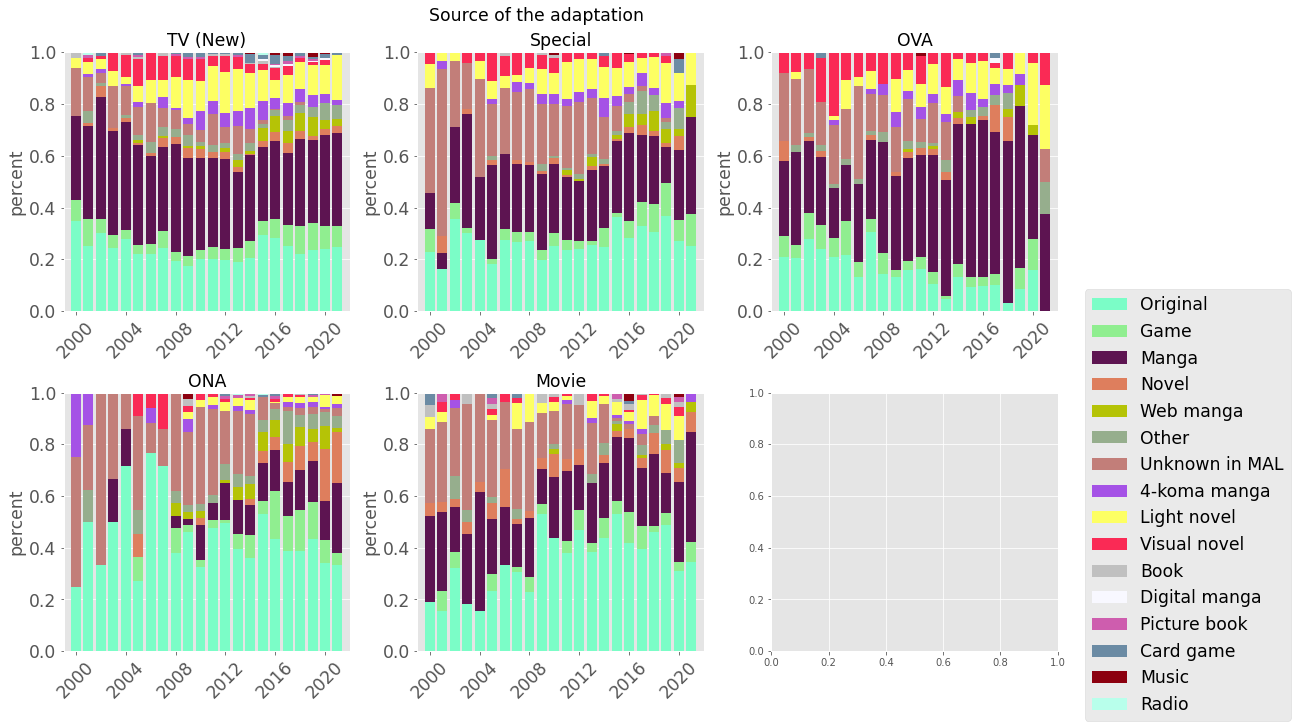
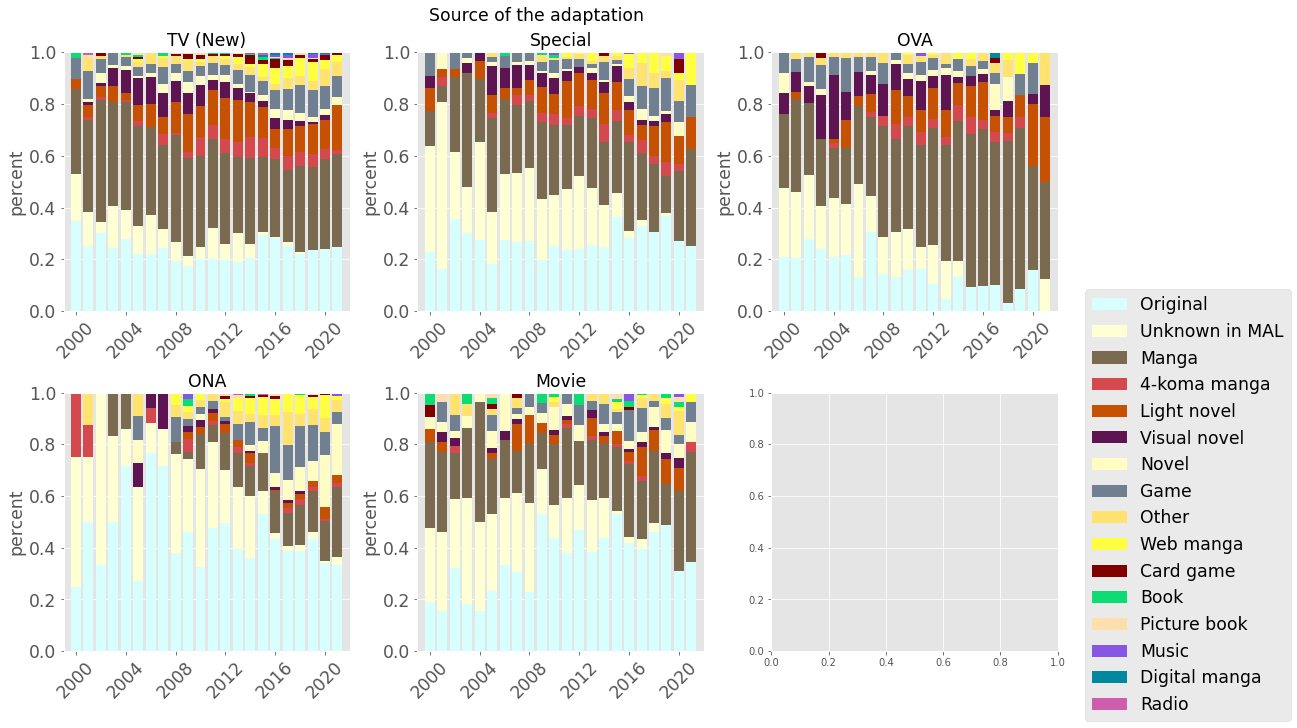
Creating function for my stacked bar

diff --git a/MyAnalizer.py b/MyAnalizer.py
@@ -30,11 +30,12 @@ raw['episodes']=raw['episodes'].astype(int)
 font='xx-large'
 enlarge_fig=(15,10)
 
-def production(df,min_year,max_year,anitypes):
+def production(df,min_year,max_year,anitypes): #To vizualize the sum of anime product each year for each season
     
     season_analyze=df.value_counts(['release-year','release-season','type']).reset_index(name='count') #count occurence and build the dataframe with a new column 'count'
 
     select_years=season_analyze[(season_analyze['release-year']<=max_year) & (season_analyze['release-year']>=min_year)] #remove years out of study scope
+    select_years=select_years[select_years['type'].isin(anitypes)]
     
     years=np.linspace(select_years['release-year'].min(),select_years['release-year'].max(),select_years['release-year'].max()-select_years['release-year'].min()+1).astype(int) #I want a list of the years
     
@@ -91,80 +92,61 @@ def production(df,min_year,max_year,anitypes):
 
     return fig
 
-def episode(df,min_year,max_year):
-    select_year=df[(df['type']=='TV (New)') & (df['episodes']>0) & (df['release-year']>=min_year) & (df['release-year']<=max_year)] #Limit my dataframe
+def episode(df,min_year,max_year,anitype,max_shown): #This function is showing the repartition of anime'lenght in the year
+    select_year=df[(df['type']==anitype) & (df['episodes']>0) & (df['release-year']>=min_year) & (df['release-year']<=max_year)] #Limit my dataframe
     
     fig, ax =plt.subplots(figsize=enlarge_fig)
     ax=sb.violinplot(x='release-year',y='episodes',data=select_year,bw=.05,cut=0, scale='width',inner='quartile',orientation='h') 
     ax.tick_params('x',labelrotation=45, labelsize=font)
     ax.tick_params('y', labelsize=font)
     ax.set_ylabel('length',fontsize=font)
+    ax.set_ylabel('diffusion',fontsize=font)
     ax.xaxis.label.set_size(font)
-    ax.set(ylim=(0,60))
+    ax.set(ylim=(0,max_shown))
     ax.xaxis.set_major_locator(ticker.MultipleLocator(base=round((max_year-min_year)/10))) # I want to limit the number of label shown
-    ax.set_title('Repartion of anime length',fontsize=font)
+    ax.set_title('Repartion of anime length : '+ anitype,fontsize=font)
     
     fig.tight_layout()
     return fig    
 
-def sauce(df,min_year,max_year,anitypes):
-    
-    if len(anitypes) == 6:
-        anitypes=['TV (New)', 'Special', 'OVA', 'ONA', 'Movie']
+def sauce(df,min_year,max_year,anitypes): 
         
     select_years=df[(df['release-year']<=max_year) & (df['release-year']>=min_year)] #remove years out of study scope
-    select_years=select_years[select_years['type'].isin(anitypes)]
+    select_years=select_years[select_years['type'].isin(anitypes)] 
     
-    select_years.loc[select_years['source-material'] == '-', 'source-material'] = "Unknown in MAL"
+    select_years.loc[select_years['source-material'] == '-', 'source-material'] = "Unknown in MAL" #replace the default value when source is not assigned to an anime
     
-    select_years=select_years.value_counts(['release-year','type','source-material']).reset_index(name='count')
+    select_years=select_years.value_counts(['release-year','type','source-material']).reset_index(name='count') #transform the long list to a count for each config
     
+    #getting the sum and repartition for each release-year/type couple
     select_sum=select_years.groupby(['release-year','type'])['count'].sum().reset_index(name='sum')
-    select_years=pd.merge(select_years,select_sum,on=('release-year','type'))
+    select_years=pd.merge(select_years,select_sum,on=('release-year','type')) 
     select_years['percent']=select_years['count']/select_years['sum']
     
-    # select_years=select_years[select_years['percent']>0.05]
+    #build a descending list by percent of source material
+    sauces=select_years.sort_values('percent',ascending=False)['source-material'].unique()    
     
-    sauces=select_years['source-material'].unique()    
-    
+    #I have a lot of category so I want to build a custom color list with colors picked randomly and all different
     colors_list = list(colors._colors_full_map.values())
-    random_list=np.random.choice(np.arange(len(colors_list)), len(sauces),replace=False)
+    random_list=np.random.choice(np.arange(len(colors_list)), len(sauces),replace=False) #replace to pick strictly different number
     random_color=[]
     for color in random_list:
         random_color.append(colors_list[color])
     
+
     years=np.linspace(select_years['release-year'].min(),select_years['release-year'].max(),select_years['release-year'].max()-select_years['release-year'].min()+1).astype(int) #I want a list of the years
+
+
+    bottom=pd.DataFrame({'years':years,'cumul':[0]*len(years)})#this dataframe will accumulate the value to build the stacked barplot
     
-    for year in years:
-        df_year=select_years[select_years['release-year']==year]
-        for anitype in anitypes:
-            df_type=df_year[df_year['type']==anitype]
-            for sauce in sauces:
-                if sauce not in df_type['source-material'].values:
-                    add_sauce=pd.DataFrame({'release-year':[year],'type':[anitype],'source-material':[sauce],'count':[0],'sum':[0],'percent':[0]})
-                    select_years=pd.concat([select_years,add_sauce])
-                    select_years.reset_index(drop=True,inplace=True)
-
-
-    bottom=pd.DataFrame({'years':years,'cumul':[0]*len(years)})#this data frame will accumulate the value to build the stacked barplot
-
-                       
-    if len(anitypes)==5:
-        fig, axes = plt.subplots(2,3,figsize=enlarge_fig) #building a subplot for the 5 anime type
-        axes = axes.flatten()
-        
-        for anime_type,ax in zip(anitypes,axes): #Season and plot goes together so I zip them
-            df_type=select_years[select_years['type']==anime_type].sort_values('release-year') #reducing the DataFrame to the season studied I need the year to be at the right order for the stacking
-            bottom['cumul']=[0]*len(years) #initialize bottom for each season
-            print('--------------'+anime_type)
-            
-            for sauce,color in zip(sauces,random_color):
-                df_sauce=df_type[df_type['source-material']==sauce]
+    def stackbarcolor(df_type,sauces,bottom,ax,anime_type):
+        for sauce,color in zip(sauces,random_color): #I want to attribute a color for each source that will be consistent for each type of anime
+                df_sauce=df_type[df_type['source-material']==sauce] #reducing the the source
                 df_sauce.reset_index(drop=True, inplace=True)
                 print(sauce)
                 
                 if len(df_sauce)!=len(bottom):
-                    temp_bottom=pd.merge(bottom,df_sauce,left_on='years',right_on='release-year') #if there is a lack of type of anime for a season, I reduce the bottom dataframe to an extract of it (if not shape mis shape between count and bottom)
+                    temp_bottom=pd.merge(bottom,df_sauce,left_on='years',right_on='release-year') #if there is a lack of source for anime for a season, I reduce the bottom dataframe to an extract of it (if not shape mis shape between count and bottom)
                                             
                     ax.bar(df_sauce['release-year'],df_sauce['percent'],label=sauce,bottom=temp_bottom['cumul'],color=color)
                     
@@ -185,44 +167,36 @@ def sauce(df,min_year,max_year,anitypes):
                 ax.tick_params('y', labelsize=font)
                 ax.axis(ymax=1)
                 ax.ticklabel_format(axis='x', style='plain', useOffset=False) #If I don't do this plt want to put the label to engineering notation
-                ax.xaxis.set_major_locator(ticker.MultipleLocator(base=round((max_year-min_year)/5)))
-                handles, labels = ax.get_legend_handles_labels() #I store the legend
+                ax.xaxis.set_major_locator(ticker.MultipleLocator(base=round((max_year-min_year)/5))) #I want only 5 step for xlabel
+                
+
     
+    
+    #differentiating plot for each type or just one type                   
+    if len(anitypes)>1:
+        fig, axes = plt.subplots(2,3,figsize=enlarge_fig) #building a subplot for the 6 anime types
+        axes = axes.flatten()
+        
+        for anime_type,ax in zip(anitypes,axes): #Season and plot goes together so I zip them
+            df_type=select_years[select_years['type']==anime_type].sort_values('release-year') #reducing the DataFrame to the season studied I need the year to be at the right order for the stacking
+            bottom['cumul']=[0]*len(years) #initialize bottom for each season
+            print('--------------'+anime_type)
+            
+            stackbarcolor(df_type,sauces,bottom,ax,anime_type)
+            
+        for ax in axes:
+            handles, labels = ax.get_legend_handles_labels() #I store the legend
+                
     else:
         fig, ax = plt.subplots(1,1,figsize=enlarge_fig) #building a subplot for the one choosen
         df_type=select_years.sort_values('release-year') #reducing the DataFrame to the season studied I need the year to be at the right order for the stacking
         bottom['cumul']=[0]*len(years) #initialize bottom for each season
-        print('--------------'+anitypes[0])
+        anime_type=anitypes[0]
+        print('--------------'+anime_type)
+          
+        stackbarcolor(df_type, sauces, bottom, ax,anime_type)
         
-        for sauce,color in zip(sauces,random_color):
-            df_sauce=df_type[df_type['source-material']==sauce]
-            df_sauce.reset_index(drop=True, inplace=True)
-            print(sauce)
-            
-            if len(df_sauce)!=len(bottom):
-                temp_bottom=pd.merge(bottom,df_sauce,left_on='years',right_on='release-year') #if there is a lack of type of anime for a season, I reduce the bottom dataframe to an extract of it (if not shape mis shape between count and bottom)
-                                        
-                ax.bar(df_sauce['release-year'],df_sauce['percent'],label=sauce,bottom=temp_bottom['cumul'],color=color)
-                
-                temp_bottom['cumul']=temp_bottom['cumul']+temp_bottom['percent'] #Create the cumul for the temp bottom
-                
-                for year,cumul in zip(temp_bottom['years'],temp_bottom['cumul']):
-                    bottom.loc[bottom['years']==year,['cumul']]=cumul #put the value in temp bottom to the actual bottom
-                
-            else:
-                ax.bar(df_sauce['release-year'],df_sauce['percent'],label=sauce,bottom=bottom['cumul'],color=color)
-                bottom['cumul']=bottom['cumul']+df_sauce['percent'] #way easier when each year are full
-            
-            ax.set_ylabel('percent',fontsize=font)
-            ax.xaxis.label.set_size(font)
-            ax.set_title(anitypes[0],fontsize=font)
-            ax.axis(xmax=select_years['release-year'].max()+1,xmin=select_years['release-year'].min()-1)
-            ax.tick_params('x',labelrotation=45, labelsize=font)
-            ax.tick_params('y', labelsize=font)
-            ax.axis(ymax=1)
-            ax.ticklabel_format(axis='x', style='plain', useOffset=False) #If I don't do this plt want to put the label to engineering notation
-            ax.xaxis.set_major_locator(ticker.MultipleLocator(base=round((max_year-min_year)/5)))
-            handles, labels = ax.get_legend_handles_labels() #I store the legend
+        handles, labels = ax.get_legend_handles_labels() #I store the legend
     
     fig.suptitle('Source of the adaptation',fontsize=font)          
     fig.tight_layout()
@@ -279,7 +253,10 @@ fig_prod.show()
 fig_sauce=sauce(raw,start_year,end_year,type_to_viz)
 fig_sauce.show()
 
-fig_ep=episode(raw,start_year,end_year)
+fig_ep=episode(raw,start_year,end_year,'TV (New)',60)
+fig_ep.show()
+
+fig_ep=episode(raw,start_year,end_year,'TV (Continuing)',150)
 fig_ep.show()
 
 input('press key') 
